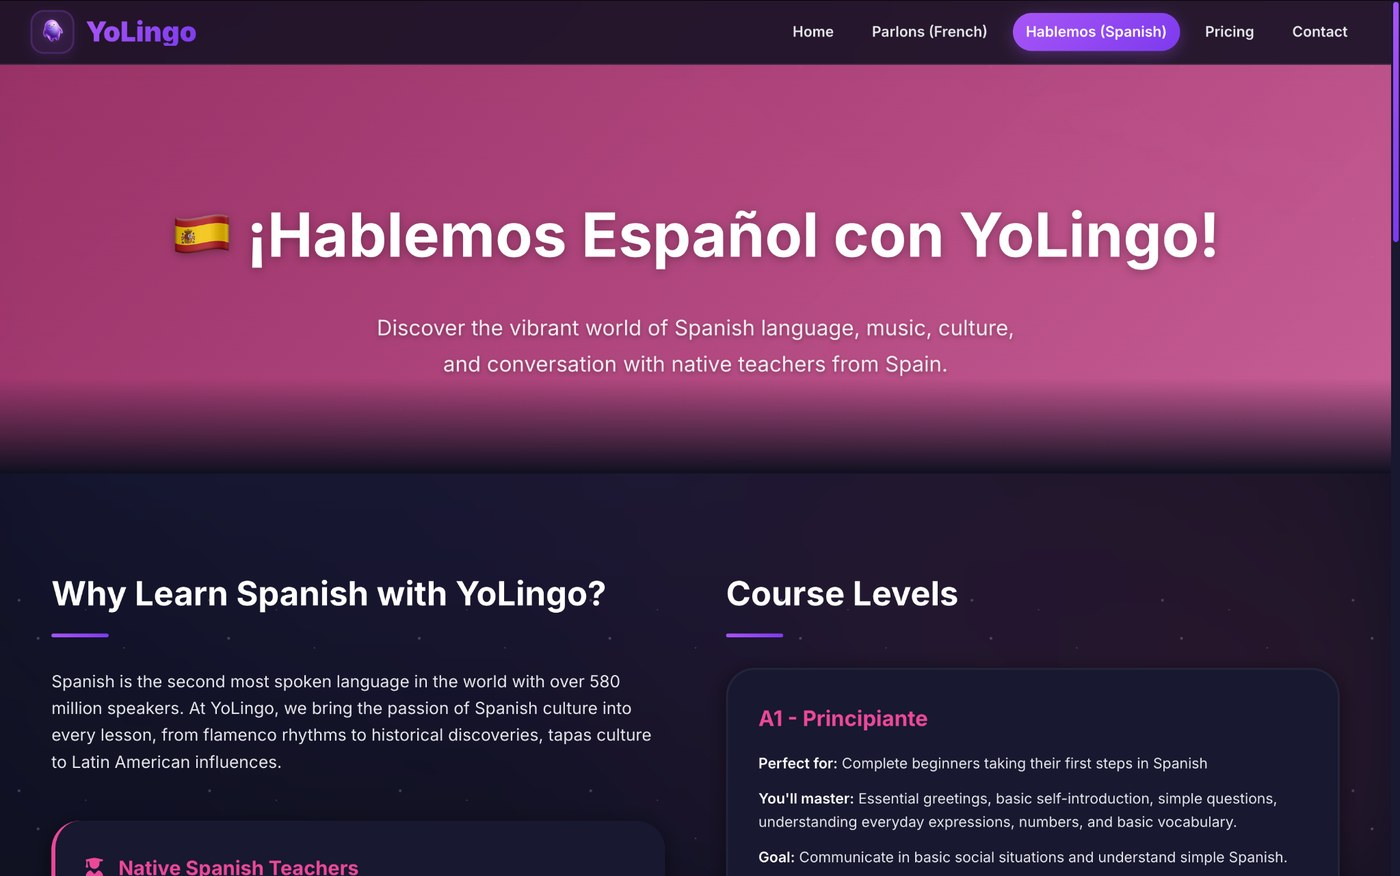
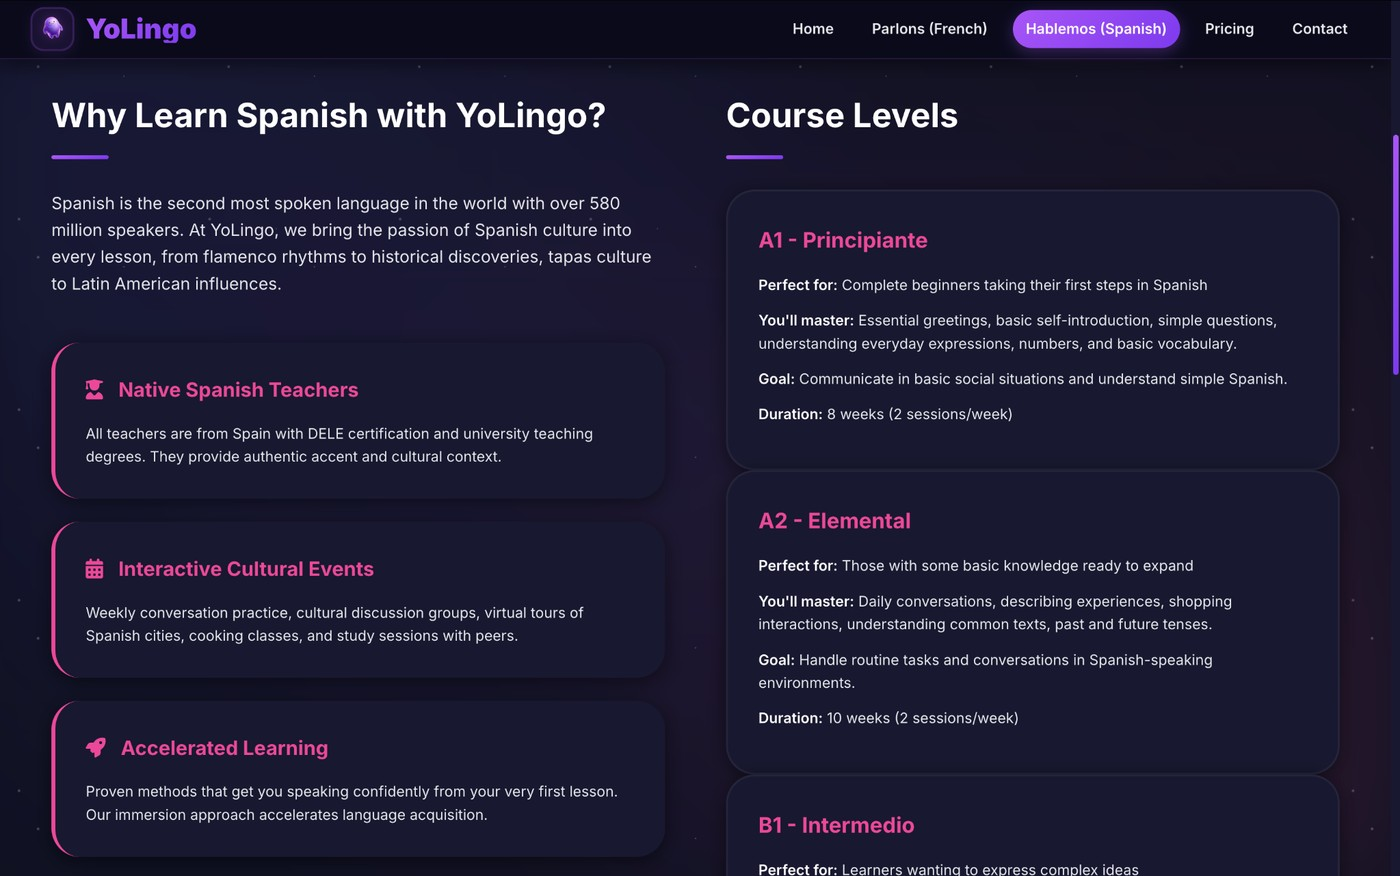
Add files via upload

diff --git a/assets/css/styles.css b/assets/css/styles.css
@@ -5996,3 +5996,276 @@ body {
     max-height: 470px !important;
   }
 }
+
+
+/* =========================================================
+   FINAL MOBILE MENU FIX
+   Full-screen menu + clean Services dropdown on phones.
+========================================================= */
+
+@media (max-width: 920px) {
+  body.menu-open {
+    overflow: hidden;
+  }
+
+  body.menu-open .site-header {
+    background: transparent;
+    border-bottom-color: transparent;
+    backdrop-filter: none;
+  }
+
+  body.menu-open .logo {
+    opacity: 0;
+    pointer-events: none;
+  }
+
+  .mobile-toggle {
+    position: relative;
+    z-index: 1205;
+  }
+
+  .nav-menu {
+    position: fixed !important;
+    inset: 0 !important;
+    width: 100vw !important;
+    height: 100dvh !important;
+    max-width: none !important;
+    padding: 104px 22px 28px !important;
+    display: flex !important;
+    flex-direction: column !important;
+    gap: 14px !important;
+    overflow-y: auto !important;
+    background:
+      radial-gradient(circle at 88% 8%, rgba(0, 194, 255, 0.16), transparent 30%),
+      linear-gradient(180deg, rgba(7, 18, 38, 0.99), rgba(7, 26, 51, 0.99)) !important;
+    border-left: 0 !important;
+    box-shadow: none !important;
+    transform: translateX(105%) !important;
+    transition: transform .32s ease !important;
+    z-index: 1200 !important;
+  }
+
+  .nav-menu.active {
+    transform: translateX(0) !important;
+  }
+
+  body.menu-open::before {
+    display: none !important;
+  }
+
+  .nav-list {
+    display: grid !important;
+    gap: 10px !important;
+    width: 100% !important;
+    margin: 0 !important;
+    padding: 0 !important;
+  }
+
+  .nav-list > li {
+    width: 100% !important;
+    display: block !important;
+  }
+
+  .nav-link,
+  .dropdown-trigger {
+    width: 100% !important;
+    height: 54px !important;
+    min-height: 54px !important;
+    padding: 0 18px !important;
+    border-radius: 18px !important;
+    justify-content: space-between !important;
+    background: rgba(255,255,255,0.065) !important;
+    border: 1px solid rgba(255,255,255,0.10) !important;
+    color: rgba(255,255,255,0.92) !important;
+    font-size: 15px !important;
+    font-weight: 850 !important;
+  }
+
+  .nav-link.active,
+  .dropdown.open .dropdown-trigger {
+    background: rgba(0,194,255,0.12) !important;
+    border-color: rgba(0,194,255,0.32) !important;
+    color: #fff !important;
+    box-shadow: 0 0 0 1px rgba(0,194,255,0.06), 0 18px 44px rgba(0, 194, 255, 0.08);
+  }
+
+  .dropdown {
+    display: block !important;
+    width: 100% !important;
+    padding: 0 !important;
+  }
+
+  .dropdown::after,
+  .dropdown-panel::before,
+  .dropdown-panel::after {
+    display: none !important;
+  }
+
+  .dropdown-panel {
+    position: static !important;
+    display: none !important;
+    width: 100% !important;
+    min-width: 0 !important;
+    margin: 10px 0 0 !important;
+    padding: 10px !important;
+    opacity: 1 !important;
+    visibility: visible !important;
+    pointer-events: auto !important;
+    transform: none !important;
+    border-radius: 20px !important;
+    background: rgba(255,255,255,0.055) !important;
+    border: 1px solid rgba(0,194,255,0.18) !important;
+    box-shadow: inset 0 1px 0 rgba(255,255,255,0.06) !important;
+  }
+
+  .dropdown.open .dropdown-panel {
+    display: block !important;
+  }
+
+  .dropdown-grid {
+    display: grid !important;
+    grid-template-columns: 1fr !important;
+    gap: 8px !important;
+  }
+
+  .dropdown-item {
+    position: relative !important;
+    display: grid !important;
+    grid-template-columns: 42px minmax(0, 1fr) 18px !important;
+    align-items: center !important;
+    gap: 13px !important;
+    min-height: 74px !important;
+    padding: 12px 12px !important;
+    border-radius: 16px !important;
+    background: rgba(255,255,255,0.055) !important;
+    border: 1px solid rgba(255,255,255,0.08) !important;
+    overflow: hidden !important;
+  }
+
+  .dropdown-item::after {
+    content: "›" !important;
+    position: static !important;
+    display: grid !important;
+    place-items: center !important;
+    width: 18px !important;
+    height: 18px !important;
+    background: none !important;
+    color: rgba(255,255,255,0.72) !important;
+    font-size: 30px !important;
+    line-height: 1 !important;
+    opacity: 1 !important;
+  }
+
+  .dropdown-item:hover,
+  .dropdown-item:focus-visible {
+    transform: none !important;
+    background: rgba(0,194,255,0.10) !important;
+    border-color: rgba(0,194,255,0.22) !important;
+  }
+
+  .dropdown-grid .nav-icon,
+  .dropdown-item .nav-icon {
+    width: 40px !important;
+    height: 40px !important;
+    min-width: 40px !important;
+    border-radius: 14px !important;
+    display: grid !important;
+    place-items: center !important;
+  }
+
+  .dropdown-grid .nav-icon svg,
+  .dropdown-item .nav-icon svg {
+    width: 21px !important;
+    height: 21px !important;
+  }
+
+  .dropdown-item > span:not(.nav-icon) {
+    display: block !important;
+    min-width: 0 !important;
+  }
+
+  .dropdown-item strong {
+    display: block !important;
+    margin: 0 0 3px !important;
+    font-size: 14px !important;
+    line-height: 1.18 !important;
+    color: #fff !important;
+    word-break: normal !important;
+    overflow-wrap: normal !important;
+    hyphens: none !important;
+  }
+
+  .dropdown-item span span {
+    display: block !important;
+    max-width: 100% !important;
+    color: rgba(232,238,245,.68) !important;
+    font-size: 12.2px !important;
+    line-height: 1.32 !important;
+    word-break: normal !important;
+    overflow-wrap: normal !important;
+    hyphens: none !important;
+  }
+
+  .language-switcher {
+    width: 100% !important;
+    margin: 2px 0 0 !important;
+    padding: 7px !important;
+    border-radius: 18px !important;
+    background: rgba(255,255,255,0.06) !important;
+    border: 1px solid rgba(255,255,255,0.10) !important;
+  }
+
+  .lang-link {
+    flex: 1 !important;
+    height: 42px !important;
+    min-height: 42px !important;
+    border-radius: 14px !important;
+  }
+
+  .nav-cta {
+    width: 100% !important;
+    min-height: 54px !important;
+    margin-top: 0 !important;
+    border-radius: 18px !important;
+  }
+}
+
+@media (max-width: 430px) {
+  .nav-menu {
+    padding: 96px 18px 26px !important;
+  }
+
+  .dropdown-item {
+    grid-template-columns: 38px minmax(0, 1fr) 14px !important;
+    min-height: 70px !important;
+    gap: 11px !important;
+    padding: 11px !important;
+  }
+
+  .dropdown-grid .nav-icon,
+  .dropdown-item .nav-icon {
+    width: 36px !important;
+    height: 36px !important;
+    min-width: 36px !important;
+    border-radius: 13px !important;
+  }
+
+  .dropdown-grid .nav-icon svg,
+  .dropdown-item .nav-icon svg {
+    width: 19px !important;
+    height: 19px !important;
+  }
+
+  .dropdown-item strong {
+    font-size: 13.2px !important;
+  }
+
+  .dropdown-item span span {
+    font-size: 11.6px !important;
+  }
+}
+
+/* Slightly better YoLingo course screenshots after replacing French / Spanish images */
+.yolingo-screen-card .screen-browser img {
+  object-position: top center !important;
+}